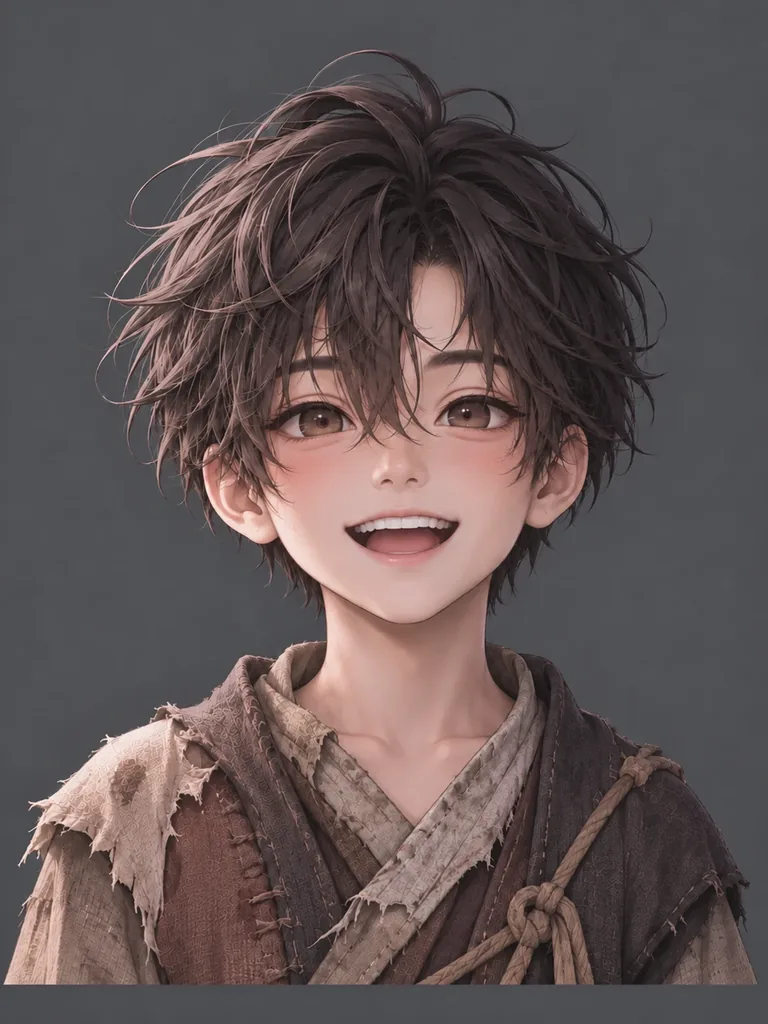
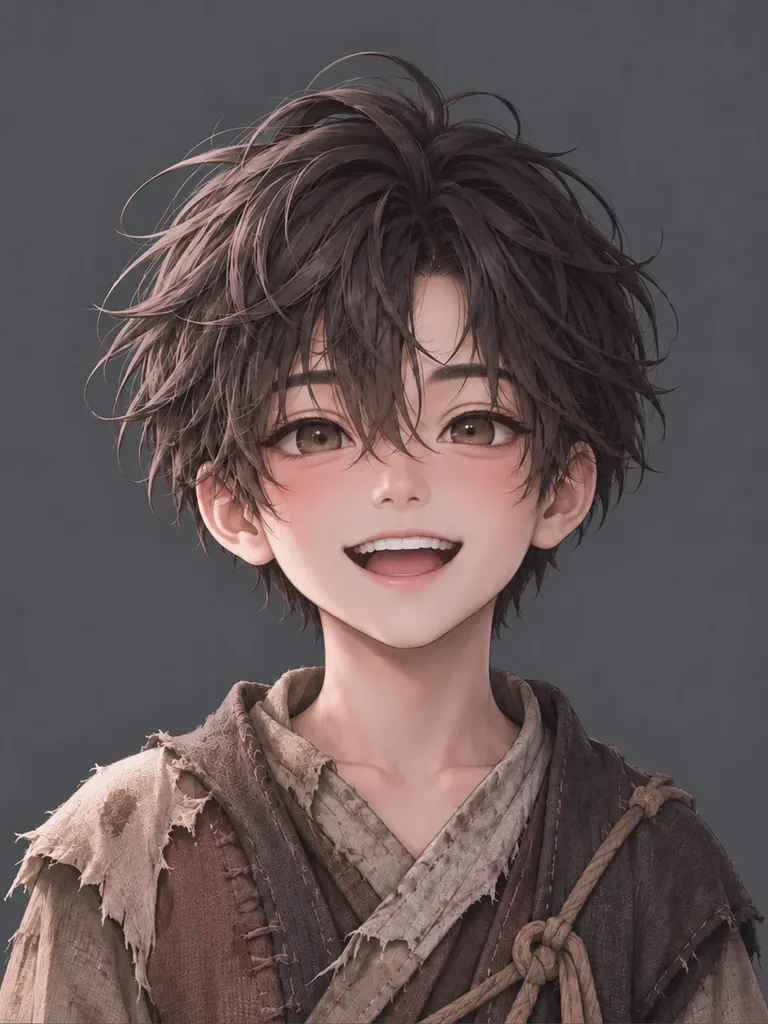
3.5.0 초상: 일러 아래 무늬 없는 띠를 잘라 내고 3:4로 맞춤(다온 그림 밑 회색 여백)
Claude-Session: https://claude.ai/code/session_01XqTB31AU6Y47JwoPr7EMgE

diff --git a/tools/portrait_art/gen.py b/tools/portrait_art/gen.py
@@ -76,8 +76,20 @@ def crop34_content(im):
     c = Image.new('RGB', (ww, hh), bg); c.paste(im.crop((max(0, l), top, min(im.width, l + ww), y1)), (max(0, -l), 0)); return c
 
 
+def flat_bottom(im):
+    w, h = im.size
+    def busy(y):
+        px = [sum(im.getpixel((x, y))) for x in range(0, w, max(1, w // 60))]
+        return max(px) - min(px) > 60
+    n = 0
+    while n < h // 4 and not busy(h - 1 - n): n += 1
+    return n
+
+
 def crop34_full(im):
     im = im.convert('RGB'); w, h = im.size
+    b = flat_bottom(im)
+    if b > 6: im = im.crop((0, 0, w, h - b)); w, h = im.size
     if abs(w * 4 - h * 3) <= 4: return im
     if w * 4 > h * 3:
         nw = h * 3 // 4; l = (w - nw) // 2; return im.crop((l, 0, l + nw, h))
